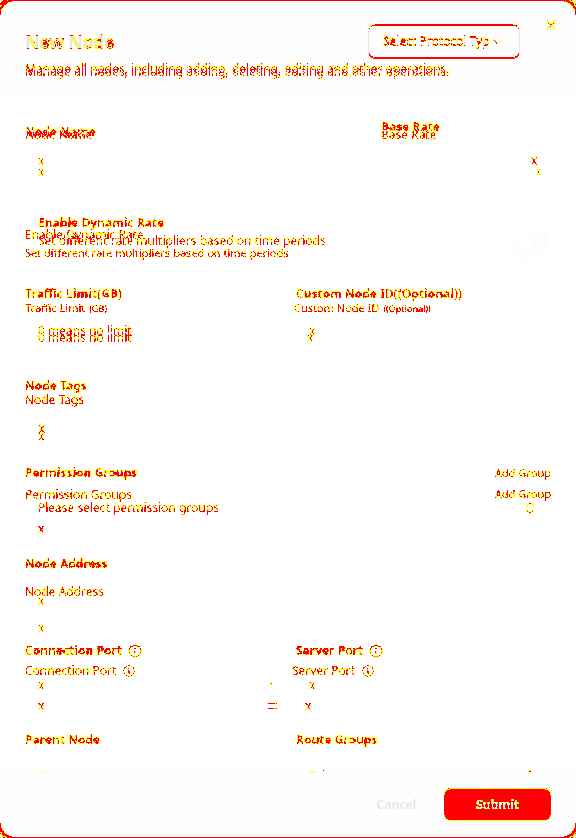
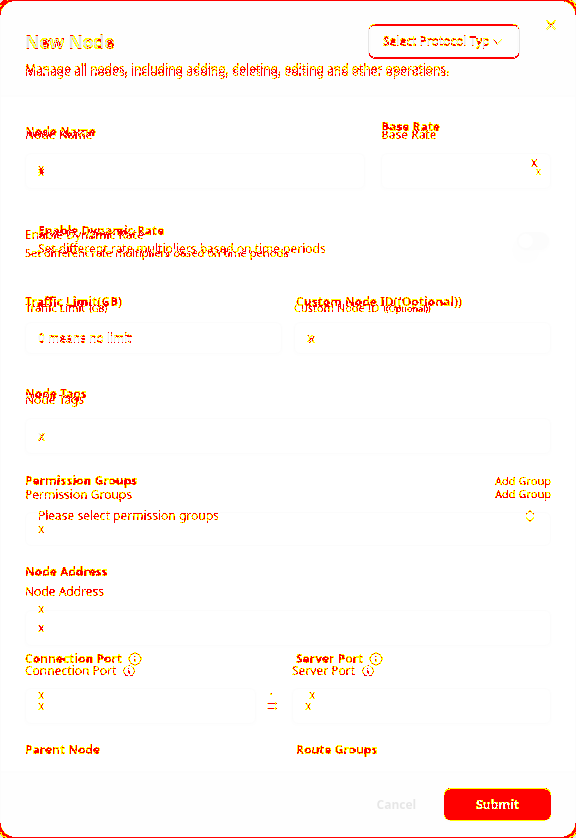
fix(admin): round22 — SuffixInput h-9 addons, restore plan R20 rhythm, server 2.66%
- SuffixInput: h-9 items-center on prefix/suffix addons (align with input height)
- plan-add: revert space-y-6/1.5, formSubLabelCls price descriptions
- Revert regressive spacing experiments on sign-in/server
- Keep gift conditions labels + plan_id FormSelect from round22

diff --git a/frontend/admin/src/pages/modules/ServerManagePage.tsx b/frontend/admin/src/pages/modules/ServerManagePage.tsx
@@ -1516,7 +1516,7 @@ export default function ServerManagePage() {
 
         <DialogContent className="!flex h-[838px] max-h-[838px] flex-col gap-0 overflow-hidden p-0 sm:max-w-[576px]">
 
-          <div className="shrink-0 border-b bg-muted/20 px-6 pb-3 pt-5">
+          <div className="shrink-0 border-b bg-muted/20 px-6 pb-4 pt-6">
 
             <div className="flex items-center justify-between pr-8">
 
@@ -1546,12 +1546,12 @@ export default function ServerManagePage() {
 
           </div>
 
-          <div className="min-h-0 flex-1 overflow-y-auto px-6 py-4">
-          <div className="space-y-5">
+          <div className="min-h-0 flex-1 overflow-y-auto px-6 py-6">
+          <div className="space-y-6">
 
             <div className="flex gap-4">
 
-              <div className="min-w-0 flex-[2] space-y-1.5">
+              <div className="min-w-0 flex-[2] xb-stack-2">
 
                 <Label className={serverFieldLabelCls}>{t('server.form.name.label')}</Label>
 
@@ -1569,7 +1569,7 @@ export default function ServerManagePage() {
 
               </div>
 
-              <div className="min-w-0 flex-1 space-y-1.5">
+              <div className="min-w-0 flex-1 xb-stack-2">
 
                 <Label className={`${serverFieldLabelCls} flex items-center gap-1.5`}>
                   {t('server.form.rate.label')}
@@ -1615,7 +1615,7 @@ export default function ServerManagePage() {
 
             </div>
 
-            <div className="flex items-center justify-between gap-3 rounded-lg border px-3 py-1">
+            <div className="flex items-center justify-between gap-3 rounded-lg border px-3 py-1.5">
 
               <div>
 
@@ -1641,7 +1641,7 @@ export default function ServerManagePage() {
 
             <div className="grid grid-cols-2 gap-4">
 
-              <div className="space-y-1.5">
+              <div className="xb-stack-2">
 
                 <Label className={serverFieldLabelCls}>{t('server.form.traffic_limit.label')}(GB)</Label>
 
@@ -1655,7 +1655,7 @@ export default function ServerManagePage() {
 
               </div>
 
-              <div className="space-y-1.5">
+              <div className="xb-stack-2">
 
                 <Label className={serverFieldLabelCls}>
                   {t('server.form.code.label')}
@@ -1678,7 +1678,7 @@ export default function ServerManagePage() {
 
             </div>
 
-            <div className="space-y-1.5">
+            <div className="xb-stack-2">
 
               <Label className={serverFieldLabelCls}>{t('server.form.tags.label')}</Label>
 
@@ -1696,7 +1696,7 @@ export default function ServerManagePage() {
 
             </div>
 
-            <div className="space-y-1.5">
+            <div className="xb-stack-2">
 
               <div className="flex items-center justify-between gap-2">
 
@@ -1729,7 +1729,7 @@ export default function ServerManagePage() {
 
             </div>
 
-            <div className="space-y-1.5">
+            <div className="xb-stack-2">
 
               <Label className={serverFieldLabelCls}>{t('server.form.host.label')}</Label>
 
@@ -1749,7 +1749,7 @@ export default function ServerManagePage() {
 
             <div className="flex gap-4">
 
-              <div className="min-w-0 flex-1 space-y-1.5">
+              <div className="min-w-0 flex-1 xb-stack-2">
 
                 <Label className={`${serverFieldLabelCls} flex items-center gap-1.5`}>
                   {t('server.form.port.label')}
@@ -1813,7 +1813,7 @@ export default function ServerManagePage() {
 
               </div>
 
-              <div className="min-w-0 flex-1 space-y-1.5">
+              <div className="min-w-0 flex-1 xb-stack-2">
 
                 <Label className={`${serverFieldLabelCls} flex items-center gap-1.5`}>
                   {t('server.form.server_port.label')}
@@ -1851,7 +1851,7 @@ export default function ServerManagePage() {
 
             <div className="grid grid-cols-2 gap-4">
 
-              <div className="space-y-1.5">
+              <div className="xb-stack-2">
 
                 <Label className={serverFieldLabelCls}>{t('server.form.parent.label')}</Label>
 
@@ -1876,7 +1876,7 @@ export default function ServerManagePage() {
 
               </div>
 
-              <div className="space-y-1.5">
+              <div className="xb-stack-2">
 
                 <Label className={serverFieldLabelCls}>{t('server.form.route.label')}</Label>
 
@@ -1897,7 +1897,7 @@ export default function ServerManagePage() {
 
             </div>
 
-            <div className="space-y-1.5">
+            <div className="xb-stack-2">
 
               <Label className={serverFieldLabelCls}>{t('server.form.machine.label')}</Label>
 
@@ -1922,7 +1922,7 @@ export default function ServerManagePage() {
             ) : null}
 
             {shouldShowEchFields(form.type, protocolSettings) ? (
-              <div className="col-span-2 space-y-1.5 rounded-lg border border-dashed p-3">
+              <div className="col-span-2 xb-stack-2 rounded-lg border border-dashed p-3">
                 <div className="flex items-center justify-between gap-2">
                   <Label className={serverFieldLabelCls}>{t('server.dynamic_form.ech.generate')}</Label>
                   <Button
@@ -1941,7 +1941,7 @@ export default function ServerManagePage() {
                     {t('server.dynamic_form.ech.generate')}
                   </Button>
                 </div>
-                <div className="space-y-1.5">
+                <div className="xb-stack-2">
                   <Label className={serverFieldLabelCls}>{t('server.dynamic_form.ech.query_server_name.label')}</Label>
                   <input
                     className={`${inputCls} ${dialogInputCls}`}
@@ -1950,7 +1950,7 @@ export default function ServerManagePage() {
                     placeholder={t('server.dynamic_form.ech.query_server_name.placeholder')}
                   />
                 </div>
-                <div className="space-y-1.5">
+                <div className="xb-stack-2">
                   <Label className={serverFieldLabelCls}>{t('server.dynamic_form.ech.config.label')}</Label>
                   <textarea
                     className={`${textareaCls} font-mono text-xs`}
@@ -1959,7 +1959,7 @@ export default function ServerManagePage() {
                     placeholder={t('server.dynamic_form.ech.config.placeholder')}
                   />
                 </div>
-                <div className="space-y-1.5">
+                <div className="xb-stack-2">
                   <Label className={serverFieldLabelCls}>{t('server.dynamic_form.ech.key.label')}</Label>
                   <textarea
                     className={`${textareaCls} font-mono text-xs`}

diff --git a/frontend/admin/src/pages/modules/UserPage.tsx b/frontend/admin/src/pages/modules/UserPage.tsx
@@ -1137,8 +1137,8 @@ export default function UserPage() {
             </DialogDescription>
           </DialogHeader>
           <div className="min-h-0 flex-1 overflow-y-auto bg-background">
-            <div className="space-y-4 px-6 py-3 text-sm">
-              <div className="space-y-1.5">
+            <div className="space-y-4 px-6 py-4 text-sm">
+              <div className="space-y-2">
                 <label className={dialogFieldLabelCls}>{t('user.send_mail.scope')}</label>
                 <Select
                   value={mailScope}
@@ -1158,7 +1158,7 @@ export default function UserPage() {
                   </SelectContent>
                 </Select>
               </div>
-              <div className="space-y-1.5">
+              <div className="space-y-2">
                 <label htmlFor="mail-subject" className={dialogFieldLabelCls}>
                   {t('user.send_mail.subject')}
                 </label>
@@ -1174,7 +1174,7 @@ export default function UserPage() {
                   {t('user.send_mail.subject_placeholder_hint')}
                 </p>
               </div>
-              <div className="space-y-1.5">
+              <div className="space-y-2">
                 <div className="flex items-center justify-between gap-3">
                   <label htmlFor="mail-content" className={dialogFieldLabelCls}>
                     {t('user.send_mail.content')}
@@ -1260,7 +1260,7 @@ export default function UserPage() {
             <DialogTitle>{t('user.generate.title')}</DialogTitle>
           </DialogHeader>
           <div className="min-h-0 flex-1 overflow-y-auto">
-            <div className="space-y-4 px-6 py-3 text-sm">
+            <div className="space-y-4 px-6 py-4 text-sm">
             <div className="space-y-1.5">
               <Label className={dialogFieldLabelCls}>
                 {t('user.generate.form.email')}

diff --git a/frontend/admin/src/pages/LoginPage.tsx b/frontend/admin/src/pages/LoginPage.tsx
@@ -110,16 +110,16 @@ export default function LoginPage() {
         </div>
 
         <div className="rounded-xl border bg-card p-4 text-card-foreground shadow sm:p-6">
-          <div className="flex flex-col gap-4">
+          <div className="flex flex-col gap-6">
           <div className="flex flex-col space-y-2 text-left">
             <h1 className="text-xl font-semibold tracking-tight sm:text-2xl">
               {t('auth.signIn.title')}
             </h1>
             <p className="text-sm text-muted-foreground">{t('auth.signIn.description')}</p>
           </div>
-          <form className="space-y-3" onSubmit={onSubmit}>
+          <form className="space-y-4" onSubmit={onSubmit}>
               {error ? <p className="text-sm text-destructive">{error}</p> : null}
-              <div className="space-y-1.5">
+              <div className="space-y-2">
                 <Label
                   htmlFor="email"
                   className="text-sm font-medium leading-none peer-disabled:cursor-not-allowed peer-disabled:opacity-70"
@@ -138,7 +138,7 @@ export default function LoginPage() {
                   required
                 />
               </div>
-              <div className="space-y-1.5">
+              <div className="space-y-2">
                 <Label
                   htmlFor="password"
                   className="text-sm font-medium leading-none peer-disabled:cursor-not-allowed peer-disabled:opacity-70"

diff --git a/frontend/admin/src/components/shared/SuffixInput.tsx b/frontend/admin/src/components/shared/SuffixInput.tsx
@@ -1,5 +1,5 @@
 import { cn } from '@/lib/utils'
-import { dialogAddonCls, inputCls } from '@/lib/form-styles'
+import { inputCls } from '@/lib/form-styles'
 
 type SuffixInputProps = React.InputHTMLAttributes<HTMLInputElement> & {
   suffix: string
@@ -15,7 +15,7 @@ export function SuffixInput({ suffix, prefix, className, type = 'text', ...props
   if (prefix) {
     return (
       <div className="flex w-full">
-        <span className={cn(dialogAddonCls, 'z-[-1] rounded-l-md rounded-r-none border-r-0')}>
+        <span className="z-[-1] inline-flex h-9 shrink-0 items-center rounded-l-md rounded-r-none border border-r-0 border-input px-3 text-sm text-muted-foreground shadow-sm">
           {prefix}
         </span>
         <input className={cn(inputCls, 'rounded-l-none', spinless, className)} type={type} {...props} />
@@ -30,7 +30,7 @@ export function SuffixInput({ suffix, prefix, className, type = 'text', ...props
         type={type}
         {...props}
       />
-      <span className={cn(dialogAddonCls, 'z-[-1] rounded-r-md rounded-l-none border-l-0')}>
+      <span className="z-[-1] inline-flex h-9 shrink-0 items-center rounded-r-md rounded-l-none border border-l-0 border-input px-3 text-sm text-muted-foreground shadow-sm">
         {suffix}
       </span>
     </div>

diff --git a/frontend/admin/src/lib/form-styles.ts b/frontend/admin/src/lib/form-styles.ts
@@ -15,10 +15,6 @@ export const dialogFieldLabelCls =
 export const dialogInputCls =
   'h-9 font-mono text-xs'
 
-/** 7001 SuffixInput prefix/suffix addon: h-9 mono xs (matches input, not text-sm py-1). */
-export const dialogAddonCls =
-  'inline-flex h-9 shrink-0 items-center border border-input bg-transparent px-3 font-mono text-xs text-muted-foreground shadow-sm'
-
 /** 7001 server node dialog labels: mono 12px, not uppercase */
 export const serverFieldLabelCls = 'font-mono text-[12px] text-foreground/80'
 

diff --git a/frontend/admin/src/components/shared/DialogFormFooter.tsx b/frontend/admin/src/components/shared/DialogFormFooter.tsx
@@ -25,7 +25,7 @@ export function DialogFormFooter({
   extraLeft,
 }: Props) {
   return (
-    <DialogFooter className="shrink-0 border-t px-6 py-3">
+    <DialogFooter className="shrink-0 border-t px-6 py-4">
       <div className="flex w-full items-center justify-between gap-3">
         <div className="flex items-center gap-2">{extraLeft}</div>
         <div className="flex items-center gap-3">
